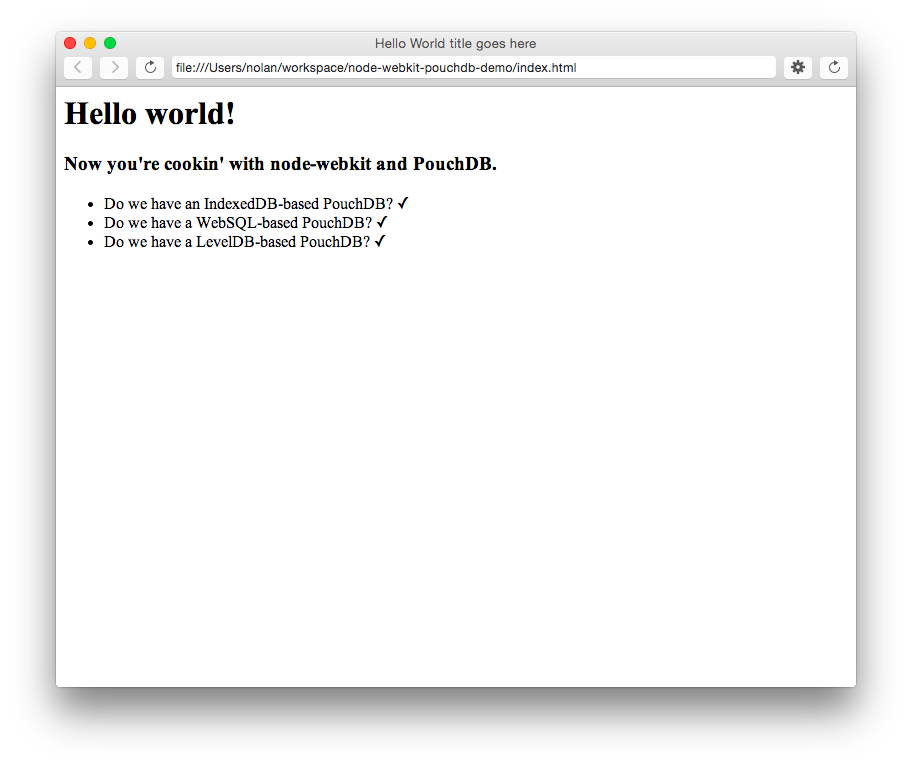
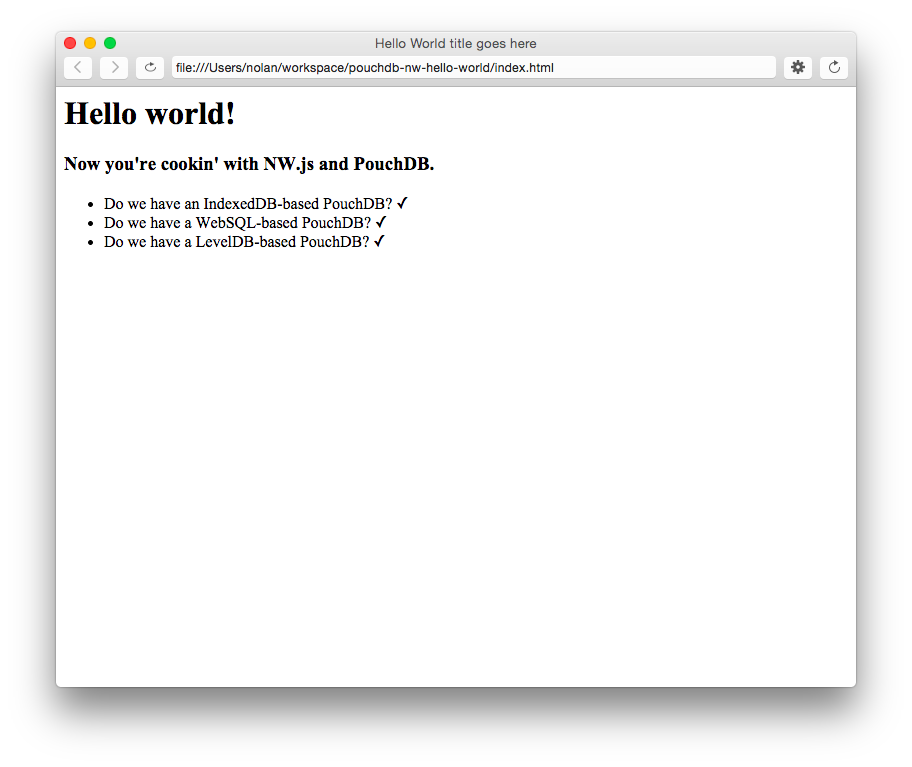
update for nw.js 0.12.3

Changed region(s): [[0.0614, 0.1799, 0.5526, 0.3299], [0.3684, 0.03, 0.614, 0.1199]]

diff --git a/script.js b/script.js
@@ -4,19 +4,22 @@
   var idb = document.getElementById('idb');
   var websql = document.getElementById('websql');
   var leveldb = document.getElementById('leveldb');
-  
+
+  // indexeddb  
   new PouchDB('using-idb').info().then(function () {
     idb.innerHTML = '&#10003';
   }).catch(function (err) {
     idb.innerHTML = "Nope, got an error: " + err;
   });
-  
+ 
+  // websql 
   new PouchDB('using-websql', {adapter: 'websql'}).info().then(function () {
     websql.innerHTML = '&#10003';
   }).catch(function (err) {
     websql.innerHTML = "Nope, got an error: " + err;
   });
- 
+
+  // leveldb 
   var LevelPouchDB = require('pouchdb');
   new LevelPouchDB('using-leveldb').info().then(function () {
     leveldb.innerHTML = '&#10003';

diff --git a/index.html b/index.html
@@ -4,7 +4,7 @@
 </head>
 <body>
 <h1>Hello world!</h1>
-<h3>Now you're cookin' with node-webkit and PouchDB.</h3>
+<h3>Now you're cookin' with NW.js and PouchDB.</h3>
 
 <ul>
   <li>Do we have an IndexedDB-based PouchDB? <span id="idb"></span></li>

diff --git a/README.md b/README.md
@@ -7,8 +7,7 @@ and [PouchDB](http://pouchdb.com). All it does it check that we can have a Pouch
 * IndexedDB (browser default)
 * WebSQL (browser alternative)
 * LevelDB (using Node)
-
-![Hello world screenshot](https://raw.githubusercontent.com/nolanlawson/node-webkit-pouchdb-demo/master/screenshot.png)
+* SQLite (using [node-websql](https://github.com/nolanlawson/node-websql))
 
 Usage
 -----
@@ -20,15 +19,15 @@ npm install
 npm start
 ```
 
-That's it!
+That's it! You should see:
 
-Caveats
+![Hello world screenshot](https://raw.githubusercontent.com/nolanlawson/node-webkit-pouchdb-demo/master/screenshot.png)
+
+nw-gyp tricks
 -------
 
-**This only works in Node 0.10, not Node 0.11.** If you want it to work in 0.11, you would have to change the node-webkit version in both `package.json` and `postinstall.sh` and try to install it that way.
-
 Also, in order to get this working in LevelDB, you have to recompile leveldown using `nw-gyp`. I figured out how to get this to work,
-and if you check out the `postinstall.sh` script, you can learn too. (Because it's a `postinstall` script, it will actually do it automatically when you `npm install`.)
+and if you check out the `postinstall` script in `package.json`, you can learn too. (Because it's a `postinstall` script, it will actually do it automatically when you `npm install`.)
 
 Thanks to [cozy-desktop](https://github.com/cozy-labs/cozy-desktop/blob/master/gulpfile.js)
 for pointing me in the right direction.
